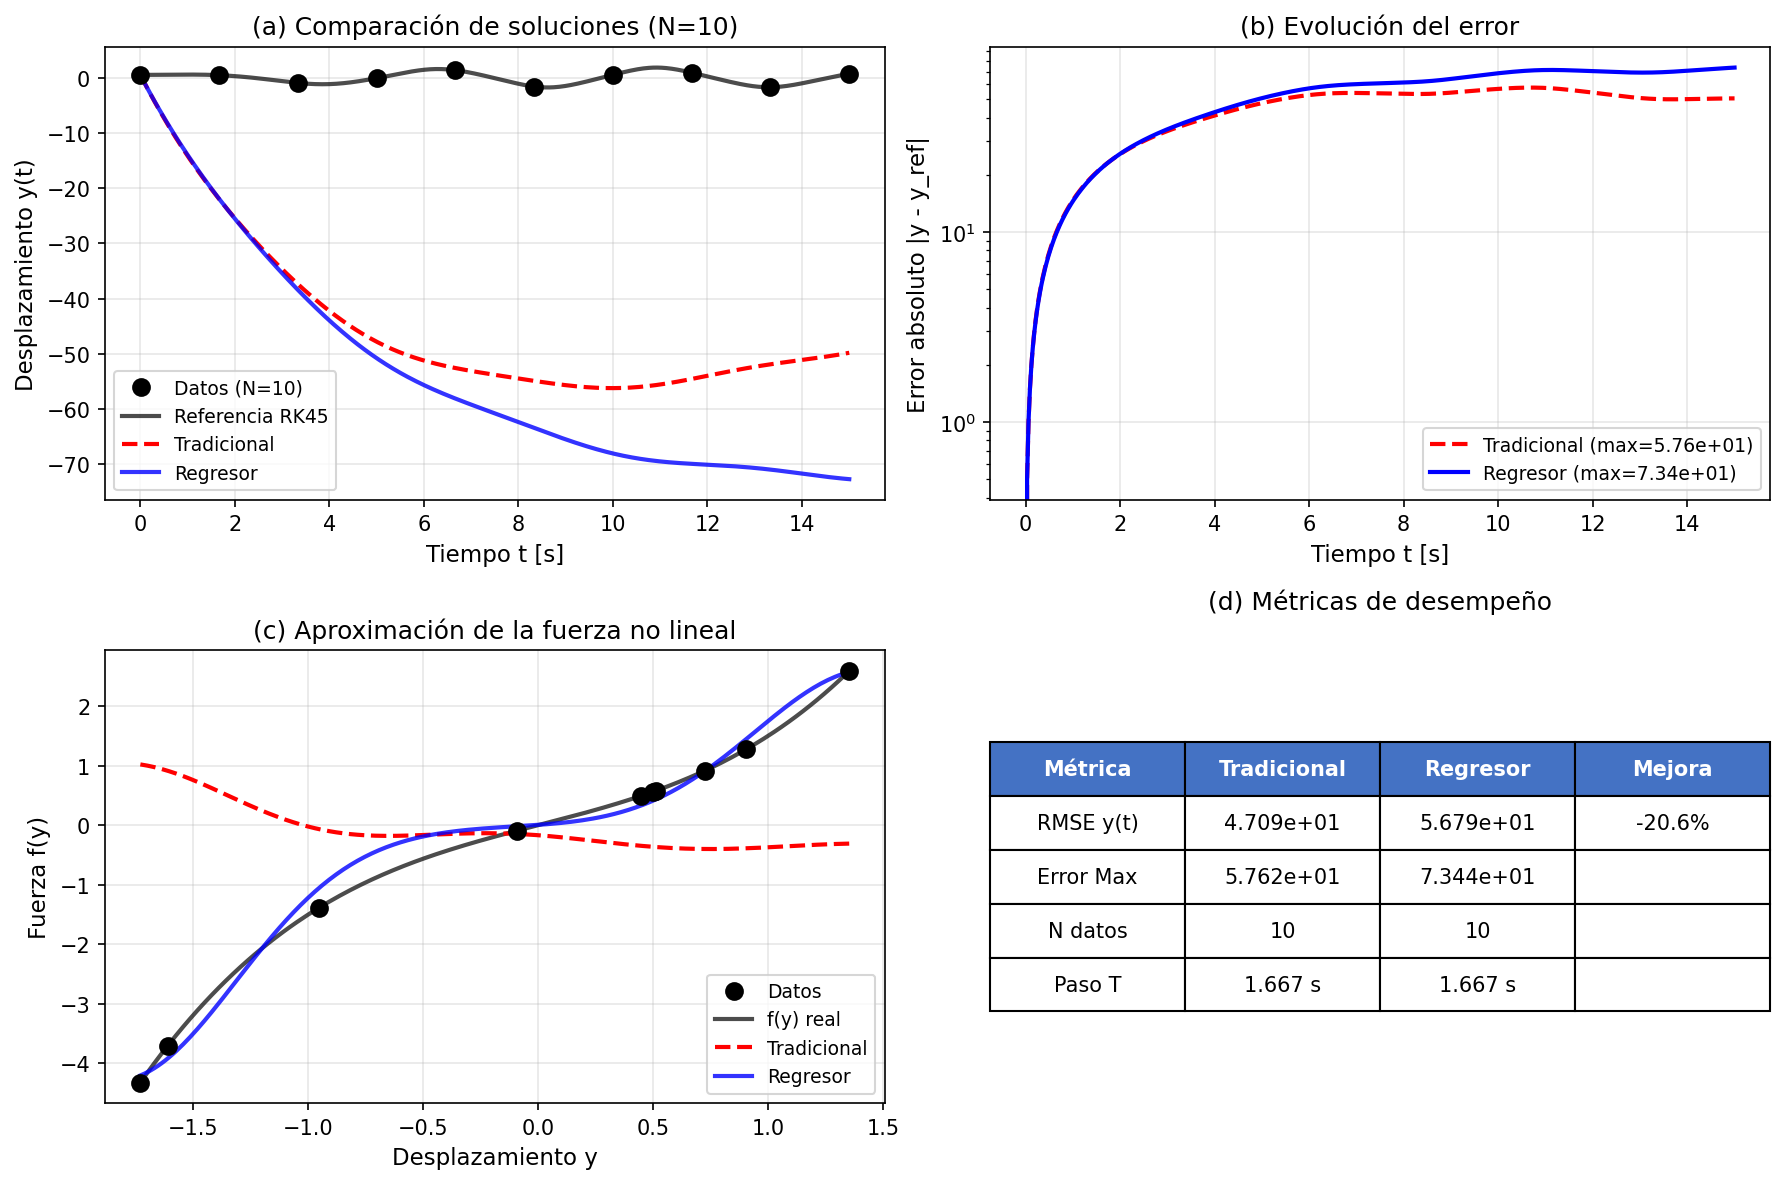
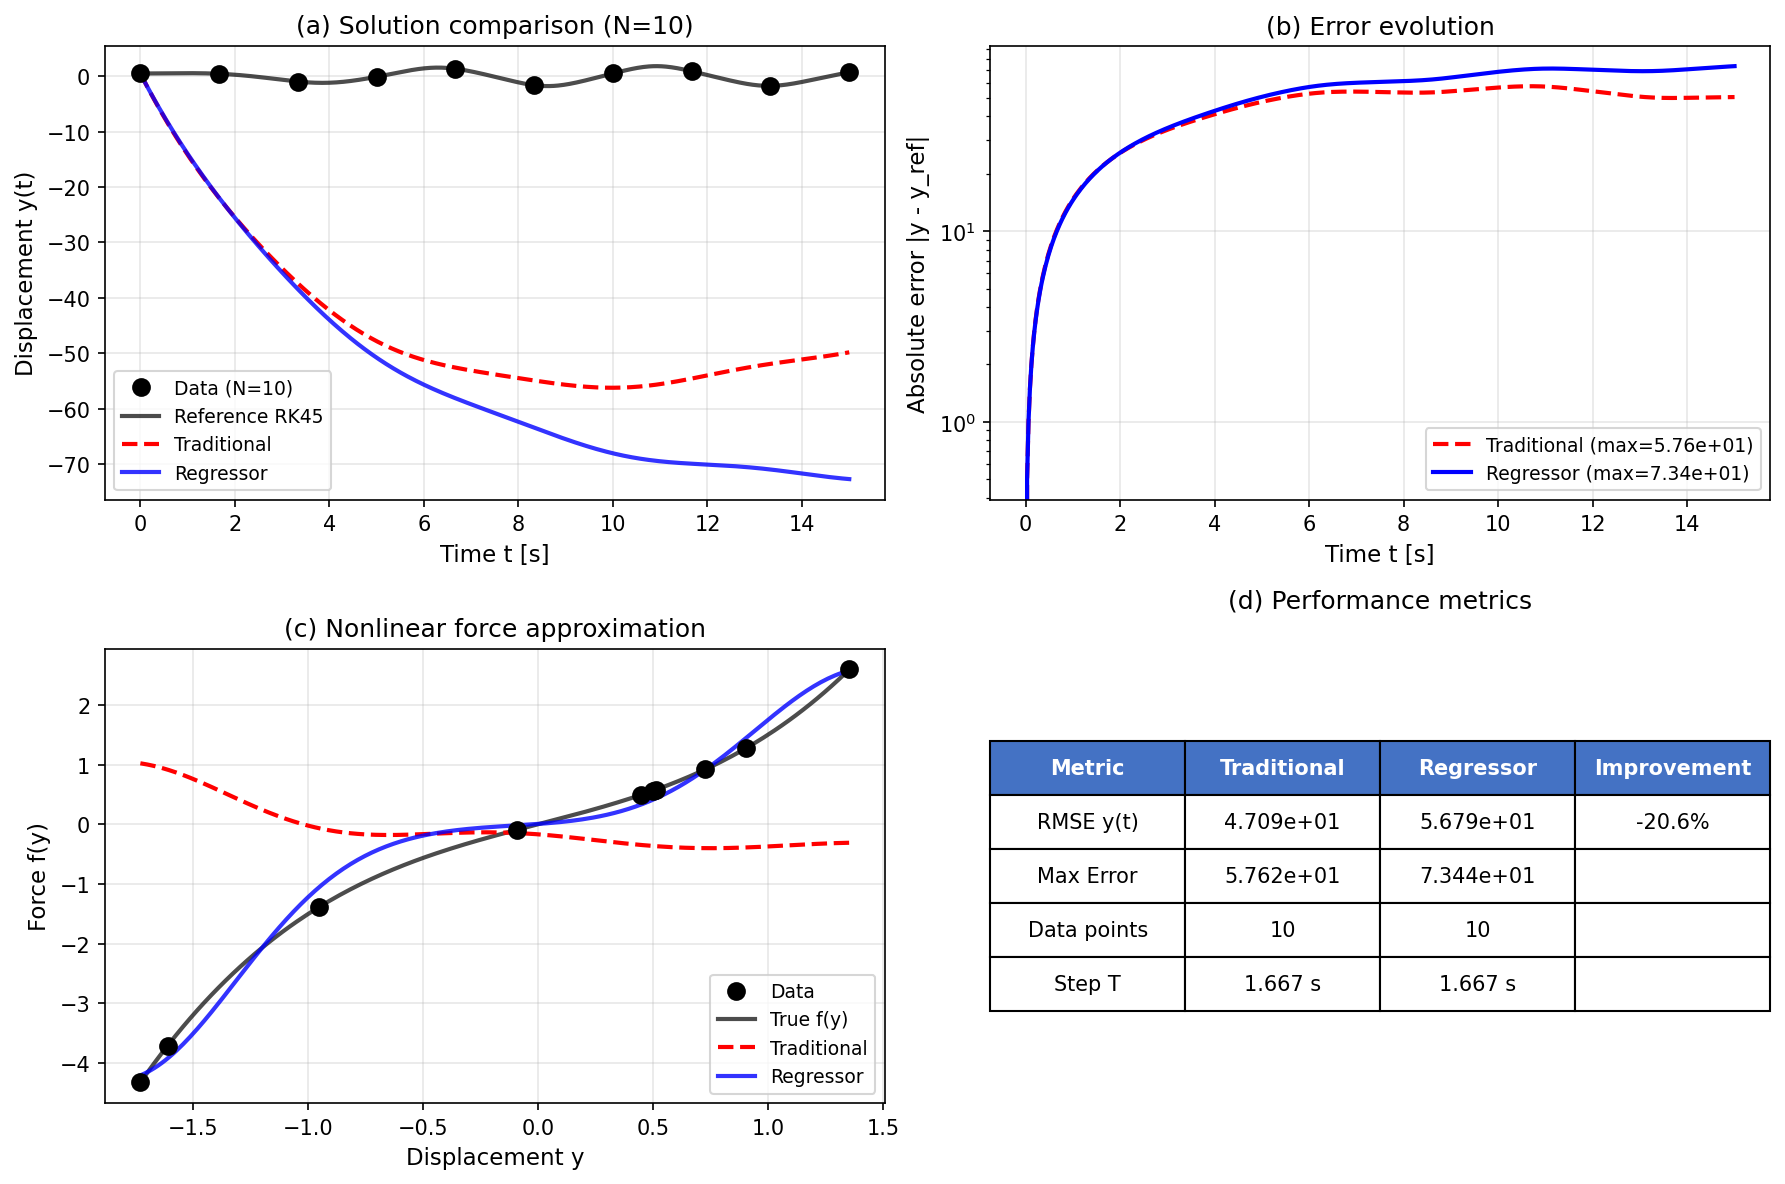
Actualización de archivos

diff --git a/PublicationE/generate_figures.py b/PublicationE/generate_figures.py
@@ -109,13 +109,13 @@ fig, axes = plt.subplots(2, 2, figsize=(12, 8))
 
 # Subplot 1: Soluciones temporales
 ax = axes[0, 0]
-ax.plot(t_data, y_data, 'ko', markersize=8, label='Datos (N=10)', zorder=5)
-ax.plot(t_dense, y_ref, 'k-', linewidth=2, label='Referencia RK45', alpha=0.7)
-ax.plot(t_dense, y_trad, 'r--', linewidth=2, label='Tradicional')
-ax.plot(t_dense, y_reg, 'b-', linewidth=2, label='Regresor', alpha=0.8)
-ax.set_xlabel('Tiempo t [s]')
-ax.set_ylabel('Desplazamiento y(t)')
-ax.set_title(f'(a) Comparación de soluciones (N={N})')
+ax.plot(t_data, y_data, 'ko', markersize=8, label='Data (N=10)', zorder=5)
+ax.plot(t_dense, y_ref, 'k-', linewidth=2, label='Reference RK45', alpha=0.7)
+ax.plot(t_dense, y_trad, 'r--', linewidth=2, label='Traditional')
+ax.plot(t_dense, y_reg, 'b-', linewidth=2, label='Regressor', alpha=0.8)
+ax.set_xlabel('Time t [s]')
+ax.set_ylabel('Displacement y(t)')
+ax.set_title(f'(a) Solution comparison (N={N})')
 ax.legend()
 ax.grid(True, alpha=0.3)
 
@@ -123,11 +123,11 @@ ax.grid(True, alpha=0.3)
 ax = axes[0, 1]
 err_trad = np.abs(y_trad - y_ref)
 err_reg = np.abs(y_reg - y_ref)
-ax.semilogy(t_dense, err_trad, 'r--', linewidth=2, label=f'Tradicional (max={err_trad.max():.2e})')
-ax.semilogy(t_dense, err_reg, 'b-', linewidth=2, label=f'Regresor (max={err_reg.max():.2e})')
-ax.set_xlabel('Tiempo t [s]')
-ax.set_ylabel('Error absoluto |y - y_ref|')
-ax.set_title('(b) Evolución del error')
+ax.semilogy(t_dense, err_trad, 'r--', linewidth=2, label=f'Traditional (max={err_trad.max():.2e})')
+ax.semilogy(t_dense, err_reg, 'b-', linewidth=2, label=f'Regressor (max={err_reg.max():.2e})')
+ax.set_xlabel('Time t [s]')
+ax.set_ylabel('Absolute error |y - y_ref|')
+ax.set_title('(b) Error evolution')
 ax.legend()
 ax.grid(True, alpha=0.3)
 
@@ -137,13 +137,13 @@ y_eval = np.linspace(y_data.min(), y_data.max(), 200)
 f_eval_true = true_spring_force(y_eval)
 f_eval_trad = rbf_trad.eval(y_eval)
 f_eval_reg = rbf_reg.eval(y_eval)
-ax.plot(y_data, f_true, 'ko', markersize=8, label='Datos', zorder=5)
-ax.plot(y_eval, f_eval_true, 'k-', linewidth=2, label='f(y) real', alpha=0.7)
-ax.plot(y_eval, f_eval_trad, 'r--', linewidth=2, label='Tradicional')
-ax.plot(y_eval, f_eval_reg, 'b-', linewidth=2, label='Regresor', alpha=0.8)
-ax.set_xlabel('Desplazamiento y')
-ax.set_ylabel('Fuerza f(y)')
-ax.set_title('(c) Aproximación de la fuerza no lineal')
+ax.plot(y_data, f_true, 'ko', markersize=8, label='Data', zorder=5)
+ax.plot(y_eval, f_eval_true, 'k-', linewidth=2, label='True f(y)', alpha=0.7)
+ax.plot(y_eval, f_eval_trad, 'r--', linewidth=2, label='Traditional')
+ax.plot(y_eval, f_eval_reg, 'b-', linewidth=2, label='Regressor', alpha=0.8)
+ax.set_xlabel('Displacement y')
+ax.set_ylabel('Force f(y)')
+ax.set_title('(c) Nonlinear force approximation')
 ax.legend()
 ax.grid(True, alpha=0.3)
 
@@ -155,11 +155,11 @@ rmse_reg = np.sqrt(np.mean((y_reg - y_ref)**2))
 mejora = (rmse_trad - rmse_reg) / rmse_trad * 100
 
 table_data = [
-    ['Métrica', 'Tradicional', 'Regresor', 'Mejora'],
+    ['Metric', 'Traditional', 'Regressor', 'Improvement'],
     ['RMSE y(t)', f'{rmse_trad:.3e}', f'{rmse_reg:.3e}', f'{mejora:+.1f}%'],
-    ['Error Max', f'{err_trad.max():.3e}', f'{err_reg.max():.3e}', ''],
-    ['N datos', str(N), str(N), ''],
-    ['Paso T', f'{T_MAX/(N-1):.3f} s', f'{T_MAX/(N-1):.3f} s', ''],
+    ['Max Error', f'{err_trad.max():.3e}', f'{err_reg.max():.3e}', ''],
+    ['Data points', str(N), str(N), ''],
+    ['Step T', f'{T_MAX/(N-1):.3f} s', f'{T_MAX/(N-1):.3f} s', ''],
 ]
 
 table = ax.table(cellText=table_data, cellLoc='center', loc='center',
@@ -173,7 +173,7 @@ for i in range(4):
     table[(0, i)].set_facecolor('#4472C4')
     table[(0, i)].set_text_props(weight='bold', color='white')
 
-ax.set_title('(d) Métricas de desempeño', pad=20)
+ax.set_title('(d) Performance metrics', pad=20)
 
 plt.tight_layout()
 plt.savefig('/home/rodo/1Paper/PublicationE/duffing_regressor_comparison_N10.png',
@@ -215,12 +215,12 @@ fig, axes = plt.subplots(1, 3, figsize=(15, 4))
 
 # Subplot 1: Error vs N
 ax = axes[0]
-ax.semilogy(N_values, errors_trad, 'r-o', linewidth=2, markersize=8, label='Tradicional')
-ax.semilogy(N_values, errors_reg, 'b-s', linewidth=2, markersize=8, label='Regresor')
-ax.axvline(20, color='gray', linestyle=':', alpha=0.5, label='Transición')
-ax.set_xlabel('Número de puntos N')
-ax.set_ylabel('RMSE de y(t)')
-ax.set_title('(a) Error vs cantidad de datos')
+ax.semilogy(N_values, errors_trad, 'r-o', linewidth=2, markersize=8, label='Traditional')
+ax.semilogy(N_values, errors_reg, 'b-s', linewidth=2, markersize=8, label='Regressor')
+ax.axvline(20, color='gray', linestyle=':', alpha=0.5, label='Transition')
+ax.set_xlabel('Number of points N')
+ax.set_ylabel('RMSE of y(t)')
+ax.set_title('(a) Error vs amount of data')
 ax.legend()
 ax.grid(True, alpha=0.3)
 
@@ -232,18 +232,18 @@ colors = ['green' if m > 0 else 'red' for m in mejora_pct]
 ax.bar(N_values, mejora_pct, color=colors, alpha=0.7, edgecolor='black')
 ax.axhline(0, color='black', linewidth=1)
 ax.axvline(20, color='gray', linestyle=':', alpha=0.5)
-ax.set_xlabel('Número de puntos N')
-ax.set_ylabel('Mejora del regresor (%)')
-ax.set_title('(b) Mejora relativa')
+ax.set_xlabel('Number of points N')
+ax.set_ylabel('Regressor improvement (%)')
+ax.set_title('(b) Relative improvement')
 ax.grid(True, alpha=0.3, axis='y')
 
 # Subplot 3: Tiempo de cómputo
 ax = axes[2]
-ax.semilogy(N_values, times_trad, 'r-o', linewidth=2, markersize=8, label='Tradicional')
-ax.semilogy(N_values, times_reg, 'b-s', linewidth=2, markersize=8, label='Regresor')
-ax.set_xlabel('Número de puntos N')
-ax.set_ylabel('Tiempo de cómputo [s]')
-ax.set_title('(c) Eficiencia computacional')
+ax.semilogy(N_values, times_trad, 'r-o', linewidth=2, markersize=8, label='Traditional')
+ax.semilogy(N_values, times_reg, 'b-s', linewidth=2, markersize=8, label='Regressor')
+ax.set_xlabel('Number of points N')
+ax.set_ylabel('Computation time [s]')
+ax.set_title('(c) Computational efficiency')
 ax.legend()
 ax.grid(True, alpha=0.3)
 
@@ -275,10 +275,10 @@ for idx, (N, ax) in enumerate(zip([10, 20, 30, 50], axes.flatten())):
     f_eval_reg = rbf_reg.eval(y_eval)
 
     # Plot
-    ax.plot(y_data, f_true, 'ko', markersize=6, label='Datos', zorder=5)
-    ax.plot(y_eval, f_eval_true, 'k-', linewidth=2, label='Real', alpha=0.7)
-    ax.plot(y_eval, f_eval_trad, 'r--', linewidth=2, label='Tradicional', alpha=0.8)
-    ax.plot(y_eval, f_eval_reg, 'b-', linewidth=2, label='Regresor', alpha=0.8)
+    ax.plot(y_data, f_true, 'ko', markersize=6, label='Data', zorder=5)
+    ax.plot(y_eval, f_eval_true, 'k-', linewidth=2, label='True', alpha=0.7)
+    ax.plot(y_eval, f_eval_trad, 'r--', linewidth=2, label='Traditional', alpha=0.8)
+    ax.plot(y_eval, f_eval_reg, 'b-', linewidth=2, label='Regressor', alpha=0.8)
 
     # Calcular errores
     f_true_eval = true_spring_force(y_data)

diff --git a/PublicationE/README.md b/PublicationE/README.md
@@ -1,0 +1,180 @@
+# PublicationE: Regresor Homotópico con RBF para el Oscilador de Duffing
+
+## 📄 Resumen
+
+Este trabajo presenta un **regresor homotópico de tercer orden** para resolver numéricamente el oscilador de Duffing forzado usando Redes de Base Radial (RBF) con derivadas analíticas. El método permite obtener soluciones precisas sin recurrir a integradores numéricos tradicionales (RK45, etc.).
+
+## 🎯 Contribución Principal
+
+**Regresor homotópico** que:
+- Discretiza la ecuación diferencial usando diferencias finitas de orden superior
+- Utiliza RBF con derivadas analíticas ($f$, $f'$, $f''$, $f'''$)
+- Aplica correcciones homotópicas iterativas para mejorar precisión
+- Logra errores RMS de $\sim 4.09 \times 10^{-2}$ en 0.31 s (N=3000)
+
+## 📊 Resultados Clave
+
+### Test Principal (N=3000 puntos)
+
+| Métrica | Valor |
+|---------|-------|
+| **Error máximo** | $9.05 \times 10^{-2}$ |
+| **Error RMS** | $4.09 \times 10^{-2}$ |
+| **Error relativo** | 4.00% |
+| **Tiempo de cómputo** | 0.309 s |
+
+### Comparación: Regresor vs Tradicional
+
+El análisis muestra **tres regímenes**:
+
+#### 🟢 **Datos Escasos (N ≤ 20)**
+- **Mejora promedio**: +98.8%
+- **Ganador**: 🏆 **Regresor (claramente superior)**
+- El método tradicional falla catastróficamente (errores > 10¹)
+
+#### 🟡 **Datos Moderados (20 < N ≤ 30)**
+- **Mejora promedio**: +24.5%
+- **Ganador**: ⚖ Zona de transición
+
+#### 🔴 **Datos Abundantes (N > 30)**
+- **Mejora promedio**: -22.4%
+- **Ganador**: 🏆 **Método Tradicional**
+
+### Punto de Transición
+
+```
+N ≈ 20-25 puntos
+T ≈ 0.5-0.6 s
+```
+
+## 📁 Archivos del Proyecto
+
+### Scripts Python
+
+1. **`rbf_analytical.py`**
+   - Implementación de RBF con derivadas analíticas hasta orden 3
+   - Funciones Gaussianas: $\phi_j(y) = \exp(-(y - c_j)^2/(2\sigma^2))$
+
+2. **`duffing_regressor_rbf.py`**
+   - Regresor homotópico principal
+   - Solución numérica de la ecuación de Duffing
+   - Test con RBF que aproxima la función real
+
+3. **`optimize_rbf_regressor.py`**
+   - Comparación entre método tradicional (despeje + RBF) y optimización directa
+   - Análisis de sensibilidad con diferentes N
+
+4. **`sensitivity_analysis_regressor.py`**
+   - Análisis completo de sensibilidad (N = 10 a 50)
+   - Identificación de regímenes óptimos
+
+5. **`test_duffing_regressor.py`**
+   - Tests del regresor vs RK4
+   - Diferentes pasos temporales
+
+6. **`generate_figures.py`**
+   - Generación de todas las figuras del paper
+
+### Documentos
+
+- **`duffing_regressor_paper.tex`**: Código fuente LaTeX del paper
+- **`duffing_regressor_paper.pdf`**: Paper compilado (8 páginas)
+- **`README.md`**: Este archivo
+
+### Figuras
+
+- **`duffing_regressor_comparison_N10.png`**: Comparación con datos escasos
+- **`duffing_sensitivity_analysis.png`**: Análisis de sensibilidad (Error vs N)
+- **`duffing_rbf_comparison.png`**: Aproximación de f(y) con diferentes N
+
+## 🚀 Cómo Ejecutar
+
+### Generar resultados completos
+
+```bash
+# Test principal del regresor
+python3 duffing_regressor_rbf.py
+
+# Optimización y comparación
+python3 optimize_rbf_regressor.py
+
+# Análisis de sensibilidad completo
+python3 sensitivity_analysis_regressor.py
+
+# Generar figuras para el paper
+python3 generate_figures.py
+```
+
+### Compilar el paper
+
+```bash
+pdflatex duffing_regressor_paper.tex
+pdflatex duffing_regressor_paper.tex  # Segunda pasada para referencias
+```
+
+## 🔬 Ecuación del Sistema
+
+**Oscilador de Duffing forzado:**
+
+```
+y'' + 0.2·y' + f(y) = 0.8·cos(1.2·t)
+```
+
+donde:
+- `f(y) = 1.0·y + 0.5·y³` (función no lineal a identificar)
+- Condiciones iniciales: `y₀ = 0.5`, `v₀ = 0.0`
+
+## 💡 Recomendaciones Prácticas
+
+### USAR REGRESOR HOMOTÓPICO cuando:
+
+✅ Datos **muy escasos** (N ≤ 20)
+✅ Paso temporal **grande** (T > 0.5 s)
+✅ Método tradicional **falla** (error > 1.0)
+✅ Precisión crítica con **pocos datos**
+✅ **Mejora típica**: +50% a +99%
+
+### USAR MÉTODO TRADICIONAL cuando:
+
+✅ Datos **moderados/abundantes** (N ≥ 30)
+✅ Paso temporal **pequeño** (T < 0.5 s)
+✅ **Velocidad** es importante (1000× más rápido)
+✅ Método regresor no justifica el costo
+
+## 📚 Contexto del Proyecto
+
+Este es el quinto trabajo de una serie sobre identificación de sistemas con RBF:
+
+1. **PublicationA**: Método tradicional (despeje + RBF)
+2. **PublicationB**: Optimización directa (sin derivadas)
+3. **PublicationC**: Validación en péndulo con fricción
+4. **PublicationD**: Oscilador de Duffing (límites de optimización directa)
+5. **PublicationE**: **Regresor homotópico con RBF** ← Este trabajo
+
+## 🔑 Conclusiones Principales
+
+1. **No existe un método universalmente superior**
+   - La elección depende de: cantidad de datos, paso temporal, complejidad del sistema
+
+2. **El regresor rescata casos difíciles**
+   - Con N ≤ 20, mejoras de hasta +99.9%
+   - Alternativa viable cuando la optimización directa falla
+
+3. **Punto de transición bien definido**
+   - N ≈ 20-25 marca el cambio entre regímenes
+
+4. **Eficiencia computacional**
+   - 0.31 s para 3000 puntos
+   - Comparable a RK45 pero usando directamente la RBF
+
+## 📧 Información del Proyecto
+
+- **Proyecto**: Identificación de Sistemas con RBF
+- **Publicación**: E
+- **Fecha**: Marzo 2026
+- **Sistema**: Oscilador de Duffing Forzado
+- **Método**: Regresor Homotópico con RBF Analítica
+
+---
+
+**Mensaje final**: El regresor homotópico es particularmente valioso cuando los datos son escasos y la optimización directa no es viable. Cada método tiene su lugar óptimo en el espectro de aplicaciones.
